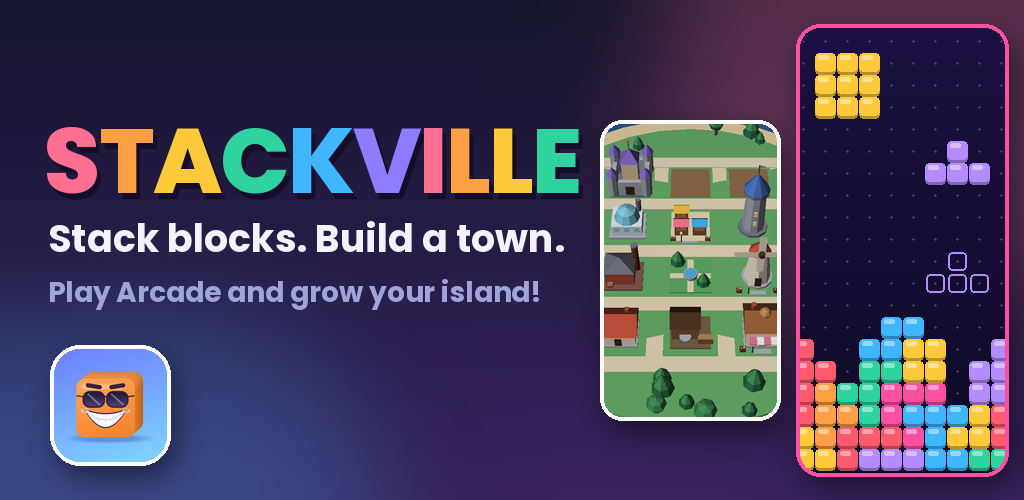
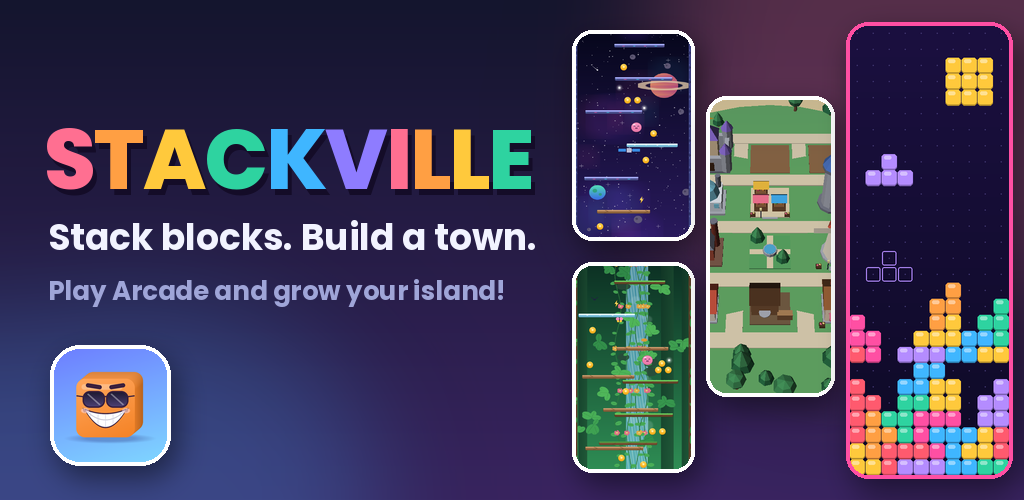
Feature graphic: space and jungle tower cards back, fuller Arcade board
Claude-Session: https://claude.ai/code/session_01XHnrsX7U6akCzcbpxjQbzf

diff --git a/Tools/StoreAssets/make_store_assets.py b/Tools/StoreAssets/make_store_assets.py
@@ -115,7 +115,8 @@ def jelly_cell(d, x, y, s, color):
 
 def arcade_board(w, h):
     """A neon Arcade board: a stack with nearly full rows, a falling T piece and a big 3x3 square."""
-    cols, rows = 10, 20
+    cols = 10
+    rows = max(20, round(cols * (h - 12) / (w - 12)))  # fill the card's shape
     s = min((w - 12) // cols, (h - 12) // rows)
     w, h = cols * s + 12, rows * s + 12
     img = gradient((w, h), "#1B1040", "#0E0A26").convert("RGBA")
@@ -128,6 +129,11 @@ def arcade_board(w, h):
     # the stack (bottom rows), '.' = empty; letters pick a colour
     stack = [
         "..........",
+        "......f...",
+        ".....ff..d",
+        "g....fc.dd",
+        "gg..cccbbd",
+        "ag.eeebbcc",
         "....bb....",
         "a..bbcc..e",
         "aa.ddcc.ee",
@@ -142,14 +148,16 @@ def arcade_board(w, h):
             if ch != ".":
                 jelly_cell(d, ox + gx * s, oy + gy * s, s, JELLY["abcdefg".index(ch)])
     # falling T piece with its ghost
-    for gx, gy in [(6, 6), (7, 6), (8, 6), (7, 5)]:
+    fy = rows // 3
+    for gx, gy in [(1, fy), (2, fy), (3, fy), (2, fy - 1)]:
         jelly_cell(d, ox + gx * s, oy + gy * s, s, "#B48CFF")
-    for gx, gy in [(6, 11), (7, 11), (8, 11), (7, 10)]:
+    gyh = rows - 13
+    for gx, gy in [(1, gyh), (2, gyh), (3, gyh), (2, gyh - 1)]:
         d.rounded_rectangle([ox + gx * s + 2, oy + gy * s + 2, ox + gx * s + s - 2, oy + gy * s + s - 2], radius=4, outline=hex2rgb("#B48CFF"), width=2)
     # big 3x3 square coming next
     for gx in range(3):
         for gy in range(3):
-            jelly_cell(d, ox + (1 + gx) * s, oy + (1 + gy) * s, s, "#FFC93C")
+            jelly_cell(d, ox + (6 + gx) * s, oy + (2 + gy) * s, s, "#FFC93C")
     return img
 
 
@@ -172,8 +180,13 @@ def feature_graphic(lang):
 
     # the Arcade block puzzle (big card) and the 3D town on the right
     city = Image.open(os.path.join(SRC, "city3d.png")).convert("RGBA")
-    card(base, city.crop((40, 160, 500, 820)), (600, 120, 180, 300), 22)
-    card(base, arcade_board(232, 472), (796, 24, 212, 452), 24, "#FF4FA3")
+    towers = Image.open(os.path.join(SRC, "towers.png")).convert("RGBA")
+    jungle = towers.crop((1080, 0, 1620, 960))
+    space = towers.crop((0, 960, 540, 1920))
+    card(base, space, (572, 30, 122, 210), 20)
+    card(base, jungle, (572, 262, 122, 210), 20)
+    card(base, city.crop((60, 160, 480, 820)), (706, 96, 128, 300), 20)
+    card(base, arcade_board(332, 912), (846, 22, 166, 456), 22, "#FF4FA3")
 
     # mascot
     mascot = Image.open(os.path.join(SRC, "icon-src.png")).convert("RGBA").resize((230, 230), Image.LANCZOS)
@@ -181,10 +194,13 @@ def feature_graphic(lang):
     card(base, mascot, (50, 345, 120, 120), 30)
 
     d = ImageDraw.Draw(base)
-    title = ImageFont.truetype(FONT_TITLE, 92)
-    rainbow_title(d, (44, 96), "STACKVILLE", title)
+    tsize = 92
+    while tsize > 50 and sum(d.textlength(ch, font=ImageFont.truetype(FONT_TITLE, tsize)) - 2 for ch in "STACKVILLE") > 500:
+        tsize -= 2
+    title = ImageFont.truetype(FONT_TITLE, tsize)
+    rainbow_title(d, (44, 96 + (92 - tsize) // 2), "STACKVILLE", title)
     line1, line2 = TAGLINES[lang]
-    def fit(text, size, max_w=520):
+    def fit(text, size, max_w=490):
         while size > 16:
             f = ImageFont.truetype(FONT_MAIN, size)
             if d.textlength(text, font=f) <= max_w:
